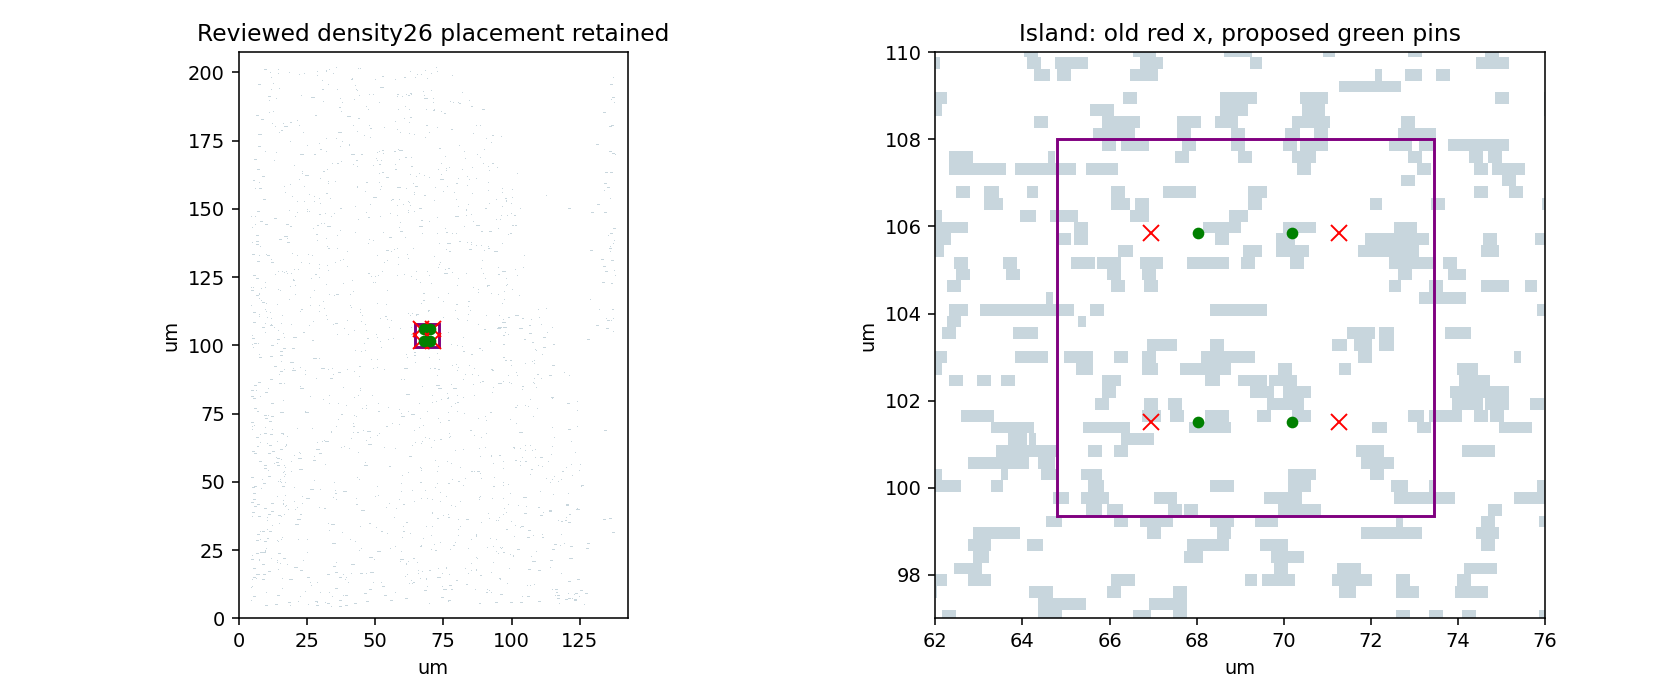
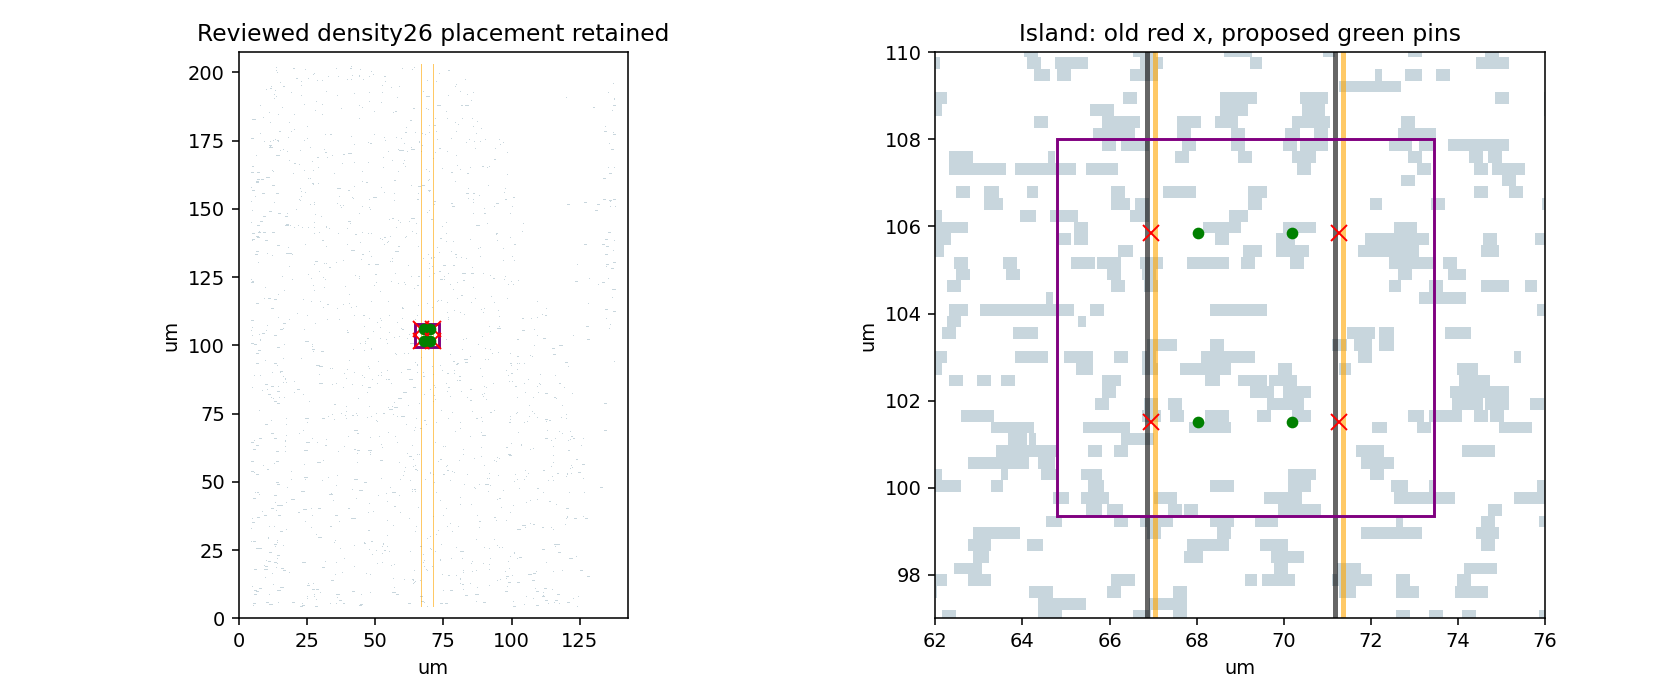
HBM: identify actual PG stripe pin-access trap in GQL

Changed region(s): [[0.7738, 0.06, 0.8048, 0.87], [0.681, 0.06, 0.7119, 0.87]]

diff --git a/results/geom_review/codex_hbm_gql_1849/render_review.py b/results/geom_review/codex_hbm_gql_1849/render_review.py
@@ -1,4 +1,4 @@
-import csv,matplotlib
+import csv,json,matplotlib
 matplotlib.use('Agg')
 import matplotlib.pyplot as plt
 from matplotlib.patches import Rectangle
@@ -11,6 +11,8 @@ for ax in axs:
   if ax is axs[1] and not (60<x<78 and 96<y<111): continue
   if ax is axs[0] and hash(r['name']) % 20: continue
   ax.add_patch(Rectangle((x,y),w,h,facecolor='#85a4b5',alpha=.45,lw=.1))
+ for pg in json.load(open(p+'island_pg.json')):
+  x0,y0,x1,y1=pg['rect'];ax.add_patch(Rectangle((x0,y0),x1-x0,y1-y0,facecolor='orange' if pg['net']=='VDD' else 'black',alpha=.6))
  ax.add_patch(Rectangle((64.8,99.36),8.64,8.64,facecolor='none',edgecolor='purple',lw=1.5))
  for name,y in [('clock',105.84),('reset',101.52)]:
   for x in [66.96,71.28]:ax.plot(x,y,'rx',ms=8)

diff --git a/results/geom_review/codex_hbm_gql_1849/pg_access.py b/results/geom_review/codex_hbm_gql_1849/pg_access.py
@@ -1,0 +1,12 @@
+import odb,json
+from pathlib import Path
+p=Path('/work');db=odb.dbDatabase.create();base=next((p/'run/results/asap7').glob('*/base'));odb.read_db(db,str(base/'4_cts.odb'));b=db.getChip().getBlock();u=b.getDbUnitsPerMicron();out=[]
+for n in b.getNets():
+ if n.getSigType() not in ('POWER','GROUND'):continue
+ for sw in n.getSWires():
+  for box in sw.getWires():
+   if box.isVia():continue
+   if box.getTechLayer().getName()!='M5':continue
+   r=[box.xMin()/u,box.yMin()/u,box.xMax()/u,box.yMax()/u]
+   if r[2]>=65 and r[0]<=73 and r[3]>=100 and r[1]<=107:out.append({'net':n.getName(),'rect':r})
+(p/'island_pg.json').write_text(json.dumps(out,indent=2)+'\n');print('ISLAND_M5_PG',out)

diff --git a/results/geom_review/codex_hbm_gql_1849/README.md b/results/geom_review/codex_hbm_gql_1849/README.md
@@ -16,3 +16,9 @@ existing shared post_route_drv scripts (source17495b11ea); netlist timing/clock
 qualification repeated by that flow. PG and pins unchanged. Uses actual routed
 SPEF, guarded MM hold repair, frozen sink masters/clock checks. +0 cycles.
 Old NOT SIGNED verdict retained. Trial epyc2 codex-hbm-ring-prd-1856/m15.
+
+Actual ODB root-cause probe (unit3540402 rc0) confirms M5 PG access trap:
+old input pin x66.944..66.976 lies between VSS ending66.924 and VDD starting66.996,
+20nm clearance each side. Output x71.264..71.296 has the same trap. The +/-1.08
+pins provide >=0.908um to these PG stripes. Updated review.png overlays actual
+ODB PG stripes (orangeVDD/blackVSS), viewed. PG geometry remains unchanged.
